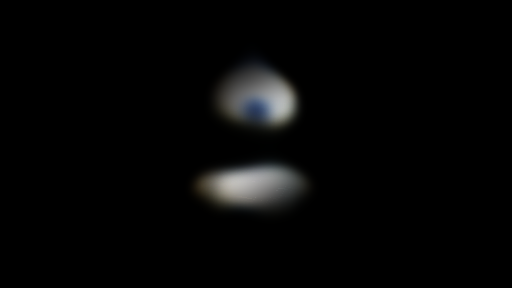
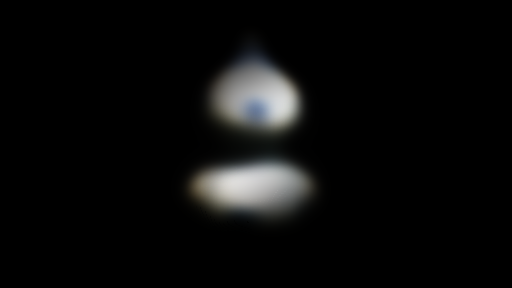
more specular results, saving more intermediate steps, better convex hull vis

Changed region(s): [[0.3438, 0.5312, 0.625, 0.7812], [0.4062, 0.1562, 0.5938, 0.5]]

diff --git a/main_specular.py b/main_specular.py
@@ -9,7 +9,8 @@ import stroke_density, lighting_specular
 def main(input_path, depth_in_path, results_dir,
          light_which_corner, eye_which_corner):
     raw_img_path = input_path
-    output_path = os.path.join(results_dir, "rendered"+str(eye_which_corner)+".png")
+    output_path = os.path.join(results_dir, "rendered"+str(light_which_corner)+".png")
+    output_w_spec_path = os.path.join(results_dir, "rendered"+str(light_which_corner)+str(eye_which_corner)+".png")
     K_out = os.path.join(results_dir, "K.png")
     intersect_path = os.path.join(results_dir, "intersections.npz")
     N_out = os.path.join(results_dir, "N.png")
@@ -51,15 +52,21 @@ def main(input_path, depth_in_path, results_dir,
     EK = EK.clip(0, 1)
     cv2.imwrite(EK_out, (EK * 255).astype(np.ubyte))
 
-    # output
-    S = light_intensity * EK + ambient_intensity + specular
-    SS = S.copy()
+    # output, normal
+    S = light_intensity * EK + ambient_intensity
     S = S.clip(0, 1)
     S = S**1.5
-    cv2.imwrite(S_out, (S * 255).astype(np.ubyte))
-
     I = np.multiply(R, S).clip(0, 255)
+    cv2.imwrite(S_out, (S * 255).astype(np.ubyte))
     cv2.imwrite(output_path, (I).astype(np.ubyte))
+
+    # output, specular
+    SS = light_intensity * EK + ambient_intensity + specular
+    SS = SS.clip(0, 1)
+    SS = SS**1.5
+    II = np.multiply(R, SS).clip(0, 255)
+    cv2.imwrite(SS_out, (SS * 255).astype(np.ubyte))
+    cv2.imwrite(output_w_spec_path, (II).astype(np.ubyte))
 
 
 def sorted_alphanumeric(data):
@@ -83,7 +90,7 @@ def save_images_as_gif(dir_, condition, gif_name):
 
 
 if __name__ == "__main__":
-    id = "013"
+    id = "012"
     assert id in ["007", "012", "013", "016", "028", "cb"]
 
     data_dir = "./imgs"
@@ -100,8 +107,9 @@ if __name__ == "__main__":
 
     # set light to top right
     # for all 4 eye corners
-    for c in range(1, 5):
-        main(input_path, depth_input_path, results_dir, 1, c)
+    # for c in range(1, 5):
+    main(input_path, depth_input_path, results_dir,
+         light_which_corner=1, eye_which_corner=3)
 
     def condition(f):
         return f[:8] == "rendered"

diff --git a/stroke_density.py b/stroke_density.py
@@ -67,11 +67,13 @@ def computeStrokeDensity(barycenter, ray_d, hull, loc_out_path, H, W):
     for i in range(loc.shape[0]):
         new_loc[ray_idx[i]] = loc[i]
     loc = new_loc
-    # numerator = np.linalg.norm(hull.points - loc, axis=1, keepdims=True)
-    numerator = np.linalg.norm(hull.points - ray_p, axis=1, keepdims=True)
+    # numerator = np.linalg.norm(hull.points - ray_p, axis=1, keepdims=True)
+    # denominator = np.linalg.norm(ray_p - loc, axis=1, keepdims=True)
+    numerator = np.linalg.norm(hull.points - loc, axis=1, keepdims=True)
     denominator = np.linalg.norm(ray_p - loc, axis=1, keepdims=True)
     K = numerator / denominator
     K = np.clip(K, 0, 1)
+    K = 1 - K
     K = np.reshape(K, (H, W, 1))
     K = np.repeat(K, repeats=3, axis=-1)
     return K
@@ -88,7 +90,7 @@ def get_stroke_density(img, intersect_path):
 def main():
     VIS = False
 
-    in_path = "./tmp/sample-input.png"
+    in_path = "./imgs/sample-input.png"
     img = cv2.imread(in_path, cv2.IMREAD_COLOR)
     points, H, W = getPoints(img)
     hull = getHull(points)
@@ -98,6 +100,7 @@ def main():
         plt.show()
         plt.close()
     
+    # exit(0)
     center = getBarycenter(hull)
     ray_dirs = getRayDirs(center, points)
     K = computeStrokeDensity(center, ray_dirs, hull, "./tmp/intersection.npz", H, W)

diff --git a/lighting_specular.py b/lighting_specular.py
@@ -202,7 +202,7 @@ def get_lighting(R, d_im, light_which_corner, eye_which_corner):
 
 
 if __name__ == "__main__":
-    id = "007"
+    id = "013"
     assert id in ["007", "012", "013", "016", "028", "cb"]
     R = cv2.imread("./imgs/"+id+".jpg", cv2.IMREAD_COLOR)
     R = resize_and_pad(R)
@@ -211,6 +211,7 @@ if __name__ == "__main__":
     d_im = cv2.imread("./specular/"+id+"/padded_R_depth.jpg",
                       cv2.IMREAD_GRAYSCALE)
     d_im = d_im[:, int(d_im.shape[1] / 2):]
+    cv2.imwrite("./specular/"+id+"/cropped_depth.png", d_im)
 
     d_im = cv2.blur(d_im, (20, 20))
     cv2.imwrite("./specular/"+id+"/blurred_depth.png", d_im)
@@ -226,7 +227,7 @@ if __name__ == "__main__":
     N = computeNormalizedChannelIntensity(R)
     cv2.imwrite("./specular/"+id+"/N.png", (N * 255).astype(np.ubyte))
     light_which_corner = 1
-    eye_which_corner = 2
+    eye_which_corner = 3
     E, specular = computeCoarseLightingEffect(
         N, norm, light_which_corner, eye_which_corner)
     cv2.imwrite(

diff --git a/main.py b/main.py
@@ -83,18 +83,24 @@ def save_images_as_gif(dir_, condition, gif_name):
 if __name__ == "__main__":
     scale_dict = {
         "sample-input.png": 100,
-        "007.jpg": 60,
+        "007.jpg": 40,
+        "012.jpg": 60,
         "013.jpg": 100,
+        "016.jpg": 60,
         "018.jpg": 60,
         "022.jpg": 60,
         "023.jpg": 30,
-        "028.jpg": 40,
+        "026.jpg": 50,
+        "028.jpg": 30,
+        "040.jpg": 50,
         "042.jpg": 60,
+        "cb.jpg": 100,
     }
 
     data_dir = "./imgs"
     all_results_dir = "./results"
-    filename = "013.jpg"
+    # filename = "sample-input.png"
+    filename = "018.jpg"
 
     # scales down the image to make things go faster
     # manually add key value pair above

diff --git a/visualize.py b/visualize.py
@@ -25,9 +25,12 @@ def show_convex_hull(hull: ConvexHull):
 
     # sample points on the hull's surface, show color
     mesh = trimesh.Trimesh(vertices=hull.points, faces=hull.simplices)
-    sampled_points, _ = trimesh.sample.sample_surface(mesh, 10000)
+    # sampled_points, _ = trimesh.sample.sample_surface(mesh, 10000)
+    sampled_points = trimesh.sample.volume_mesh(mesh, 30000)
     adj_col = sampled_points / 256
     adj_col = adj_col.tolist()
     ax.scatter(sampled_points[:, 0], sampled_points[:, 1], sampled_points[:, 2], alpha=1, c=adj_col)
-
+    ax.set_xticklabels([])
+    ax.set_yticklabels([])
+    ax.set_zticklabels([])
     return plt

diff --git a/lighting_vectorized.py b/lighting_vectorized.py
@@ -161,7 +161,7 @@ def pad_image(img):
 
 
 def get_lighting(img, which_corner, desat_normal=False, normal_desat_factor=0.85,
-                 desat_coarse=False, coarse_desat_factor=0.5):
+                 desat_coarse=False, coarse_desat_factor=0.3):
     N = computeNormalizedChannelIntensity(img, desat_normal, normal_desat_factor)
     E = computeCoarseLightingEffect(N, which_corner)
     if desat_coarse:
